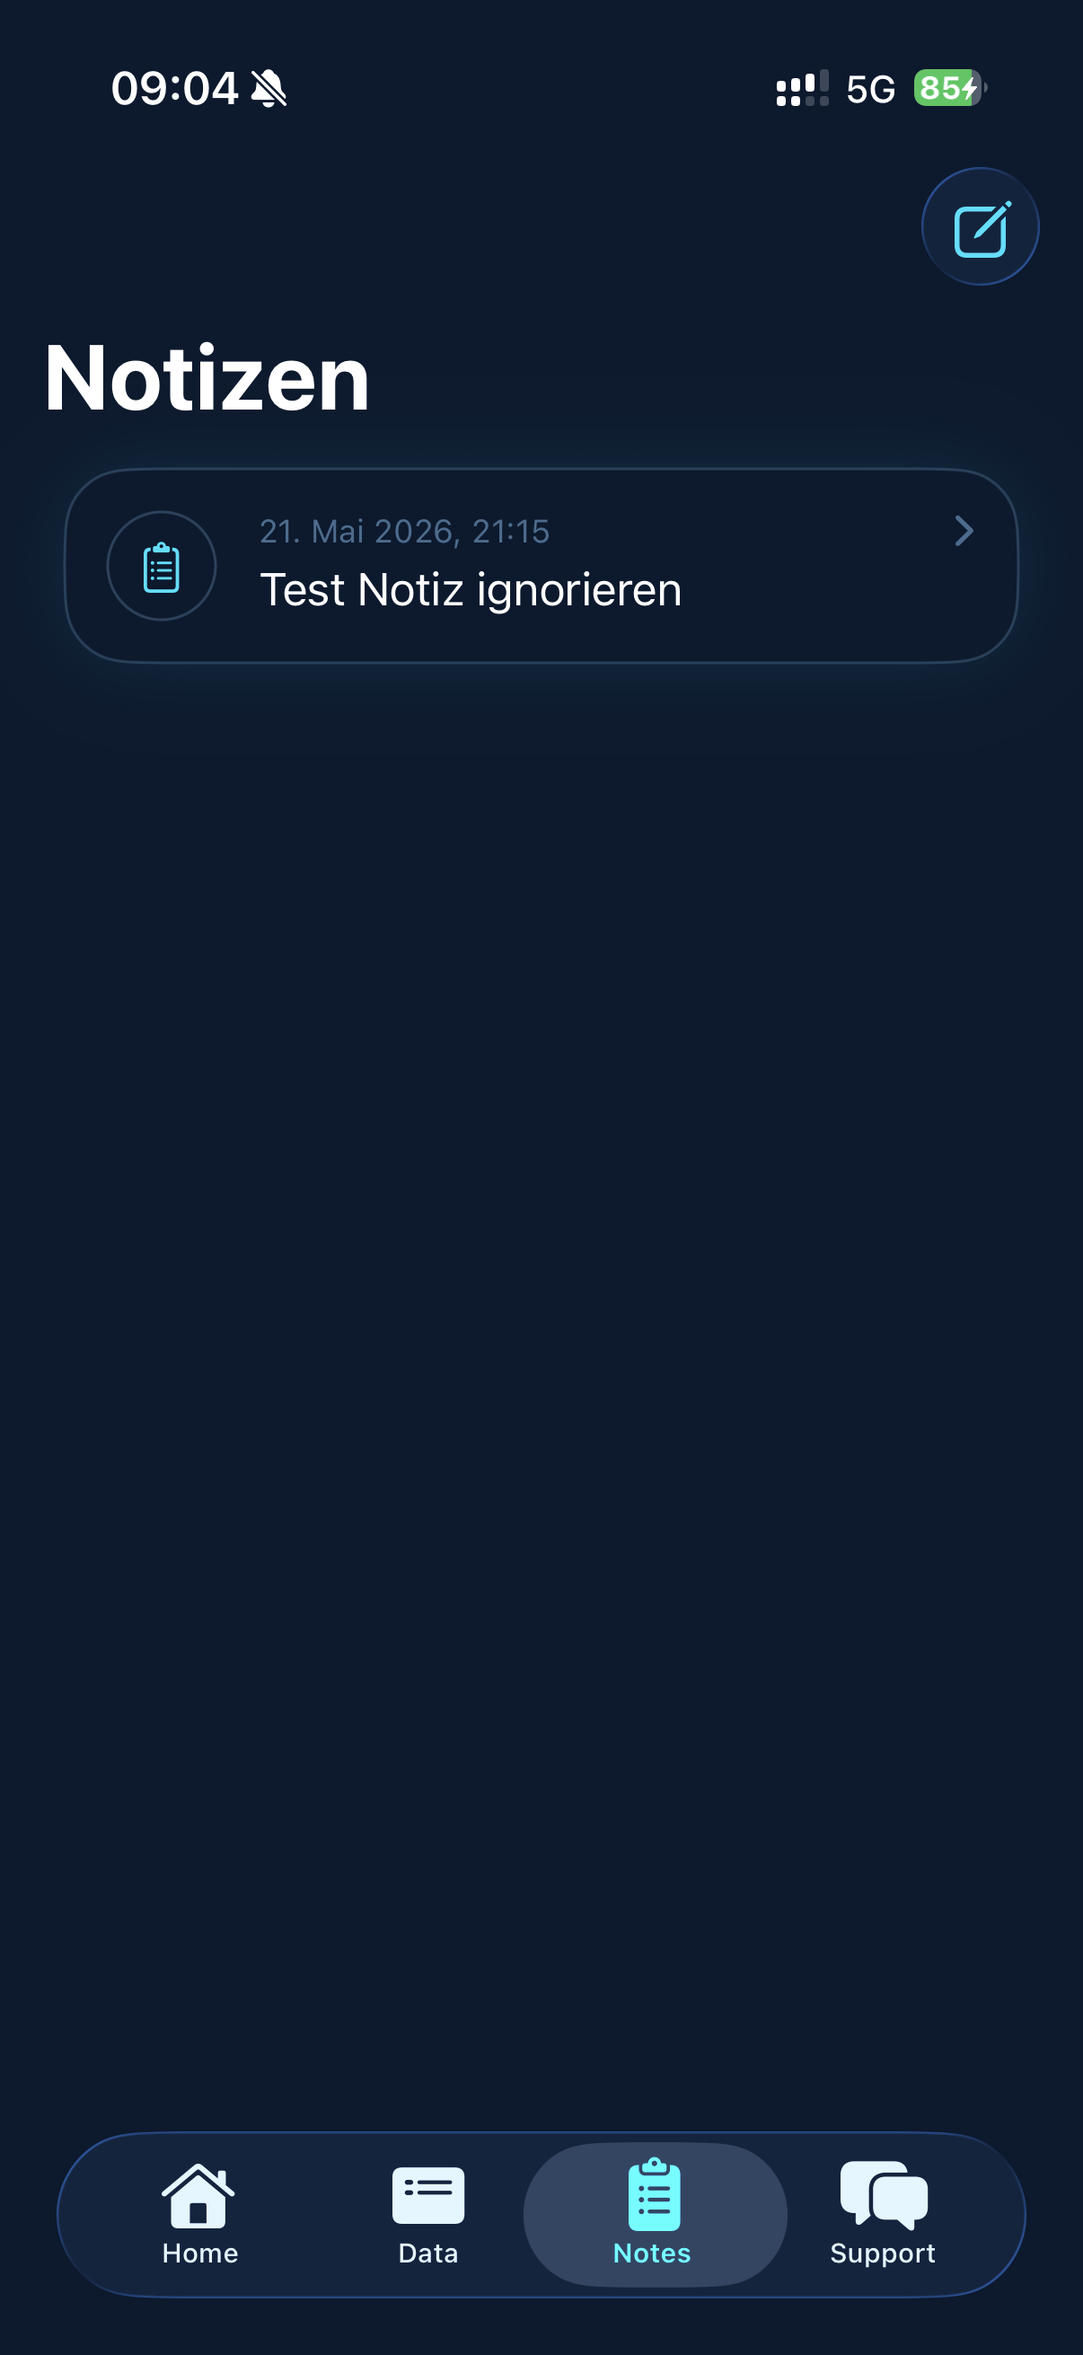
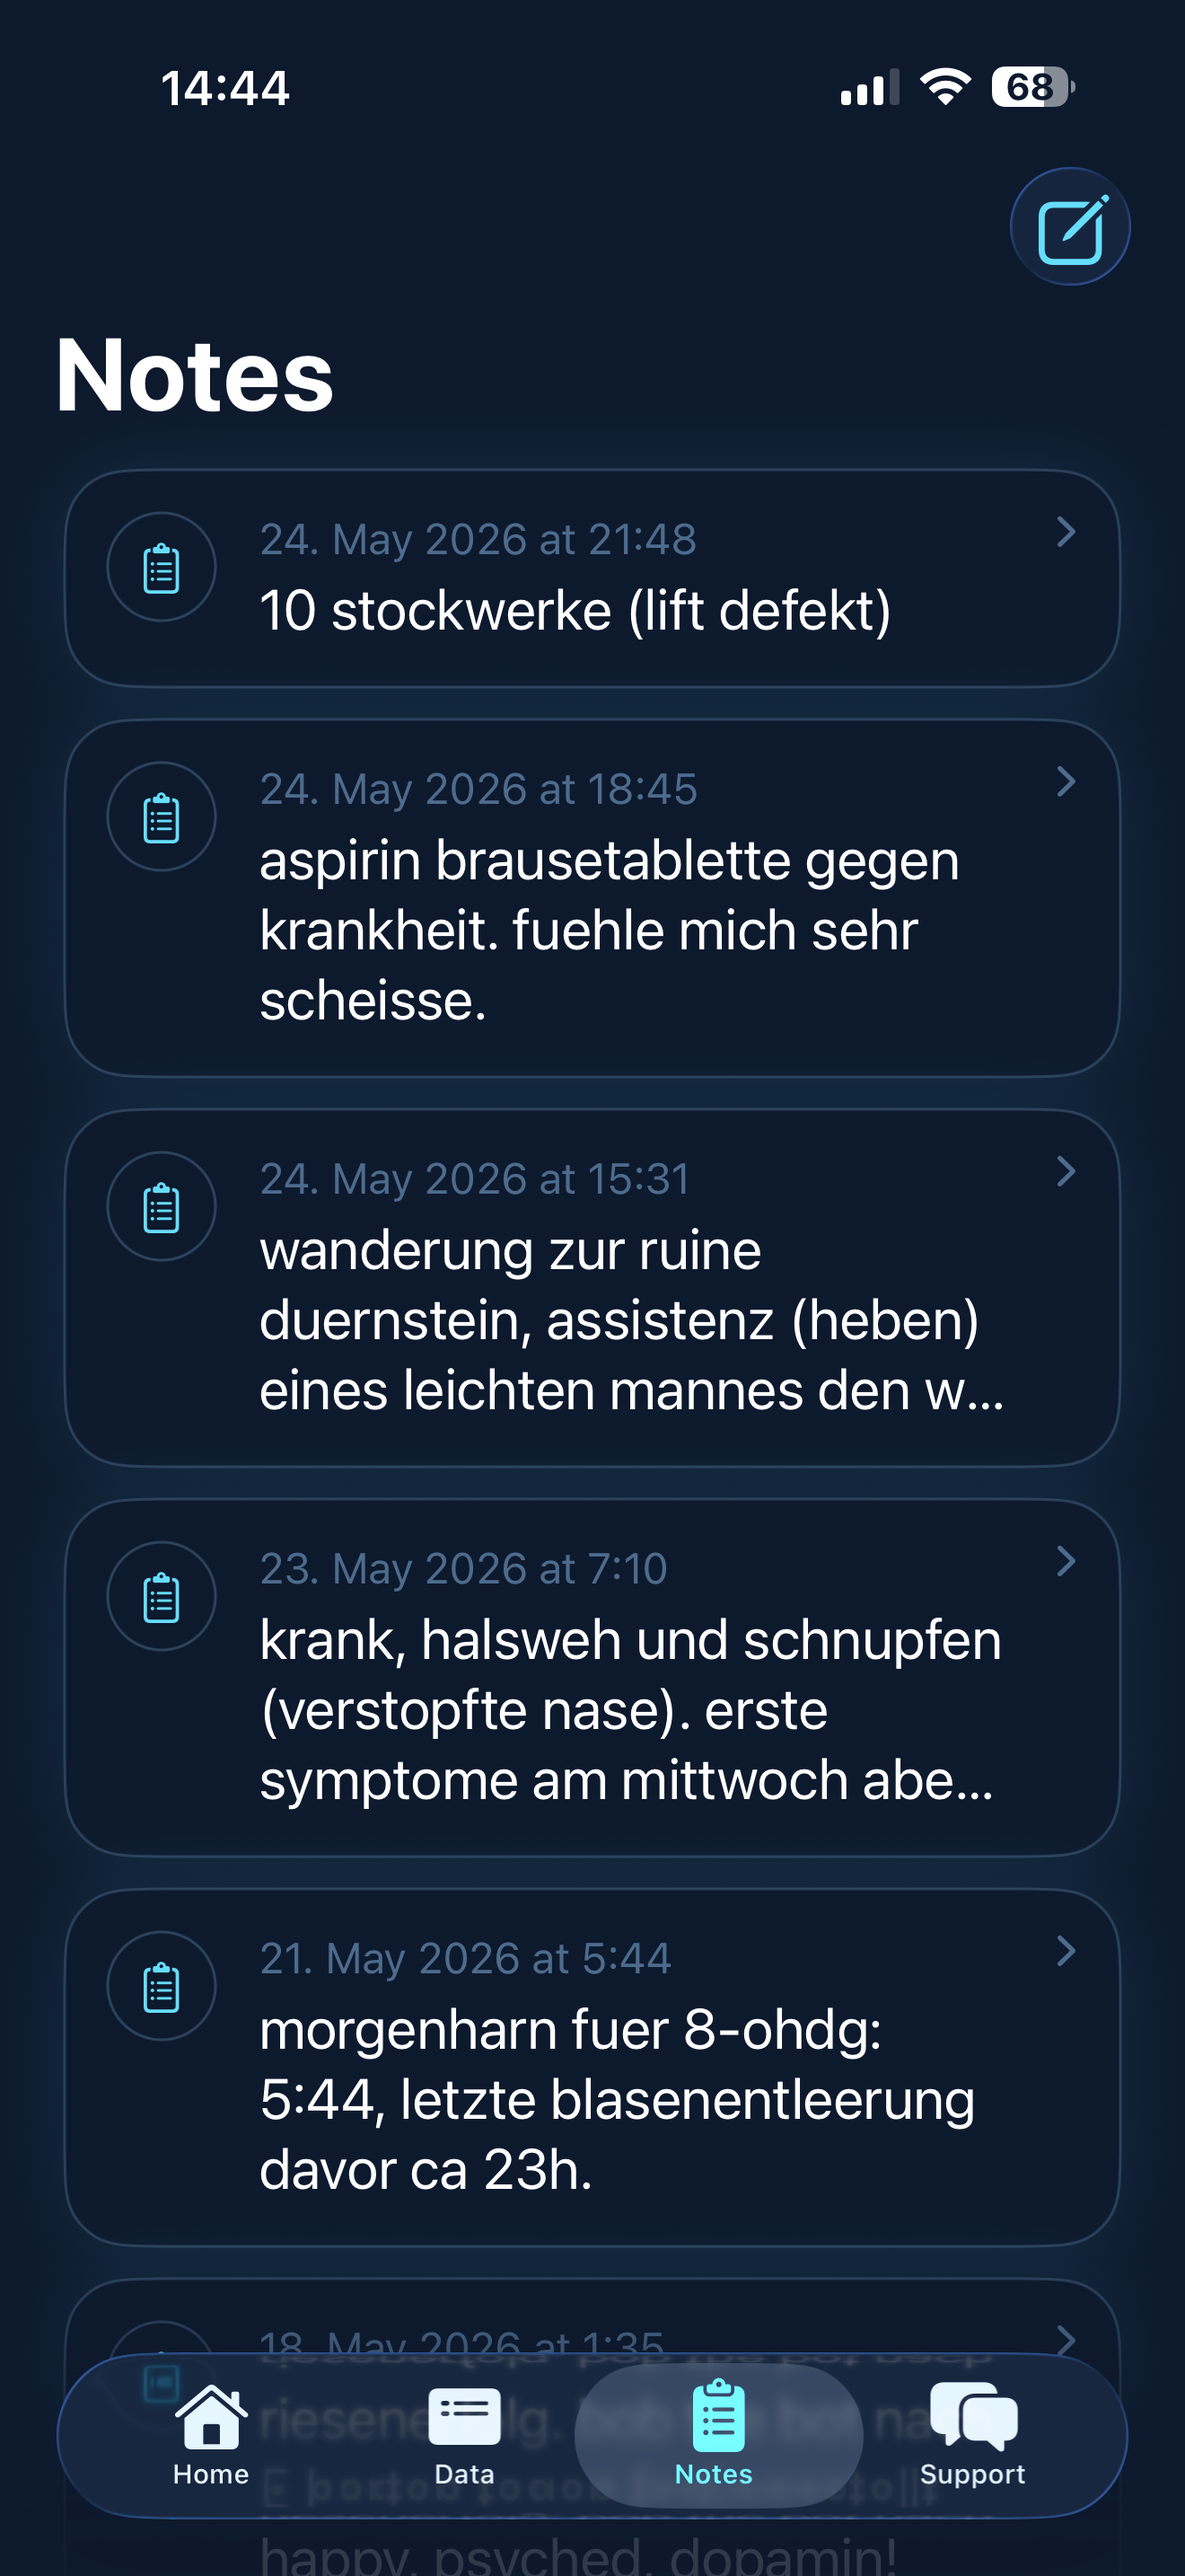
feat(product): real app screenshots + crossfade sticky phone
- Replace placeholder screens with real iPhone screenshots
- Rename slide images to match i18n keys (screens/<key>.png); Hero uses screens/home.png
- Stack + crossfade the sticky phone instead of AnimatePresence mount/unmount, so swaps no longer show a blank frame while the next image optimizes
- Remove orphaned old images (hero-screen.png, data.png, makros.jpeg, workout.png)

diff --git a/components/sections/ProductInMotion.tsx b/components/sections/ProductInMotion.tsx
@@ -1,15 +1,18 @@
 'use client';
 import { useEffect, useRef, useState } from 'react';
 import { useTranslations } from 'next-intl';
-import { motion, AnimatePresence, useReducedMotion } from 'framer-motion';
+import { motion, useReducedMotion } from 'framer-motion';
+import Image from 'next/image';
 import clsx from 'clsx';
 import { PhoneScreenshot } from '@/components/ui/PhoneScreenshot';
 
+// Filenames match the i18n slide key (the "section title"). The matching
+// screenshots live in public/images/screens/<key>.png.
 const SLIDES = [
-  { key: 'home', src: '/images/hero-screen.png' },
-  { key: 'sleep', src: '/images/screens/data.png' },
-  { key: 'meals', src: '/images/screens/makros.jpeg' },
-  { key: 'training', src: '/images/screens/workout.png' },
+  { key: 'home', src: '/images/screens/home.png' },
+  { key: 'sleep', src: '/images/screens/sleep.png' },
+  { key: 'meals', src: '/images/screens/meals.png' },
+  { key: 'training', src: '/images/screens/training.png' },
   { key: 'notes', src: '/images/screens/notes.png' },
 ] as const;
 
@@ -38,8 +41,6 @@ export function ProductInMotion() {
     return () => observer.disconnect();
   }, []);
 
-  const activeSlide = SLIDES[active];
-
   return (
     <section className="py-14 md:py-20">
       <div className="max-w-[1280px] mx-auto px-4 md:px-6 lg:px-8">
@@ -51,20 +52,33 @@ export function ProductInMotion() {
               last slide. (top = 50vh − half the phone height of ~609px.) */}
           <div className="hidden lg:block">
             <div className="sticky" style={{ top: 'calc(50vh - 305px)' }}>
-              <AnimatePresence mode="wait">
-                <motion.div
-                  key={activeSlide.key}
-                  initial={reduced ? false : { opacity: 0, y: 8 }}
-                  animate={{ opacity: 1, y: 0 }}
-                  exit={reduced ? { opacity: 1 } : { opacity: 0, y: -8 }}
-                  transition={{ duration: reduced ? 0 : 0.25, ease: 'easeOut' }}
-                >
-                  <PhoneScreenshot
-                    src={activeSlide.src}
-                    alt={`Thalos app — ${t(`slides.${activeSlide.key}.title`)}`}
-                  />
-                </motion.div>
-              </AnimatePresence>
+              {/* All slides are pre-mounted and stacked; we crossfade opacity on
+                  the active index. Each screenshot loads once (no unmount /
+                  refetch) so swaps are instant — the previous image stays until
+                  the next is ready, eliminating the blank-frame gap that
+                  AnimatePresence's mount/unmount produced while the next big PNG
+                  re-optimized. */}
+              <div className="relative mx-auto w-[280px] aspect-[1206/2622] rounded-phone overflow-hidden border border-border-default shadow-ring-glow bg-navy">
+                {SLIDES.map((s, i) => (
+                  <motion.div
+                    key={s.key}
+                    className="absolute inset-0"
+                    initial={false}
+                    animate={{ opacity: i === active ? 1 : 0 }}
+                    transition={{ duration: reduced ? 0 : 0.35, ease: 'easeOut' }}
+                    aria-hidden={i !== active}
+                  >
+                    <Image
+                      src={s.src}
+                      alt={`Thalos app — ${t(`slides.${s.key}.title`)}`}
+                      fill
+                      sizes="280px"
+                      priority={i === 0}
+                      className="object-cover"
+                    />
+                  </motion.div>
+                ))}
+              </div>
             </div>
           </div>
 

diff --git a/components/ui/PhoneScreenshot.tsx b/components/ui/PhoneScreenshot.tsx
@@ -9,7 +9,7 @@ type Props = {
 };
 
 export function PhoneScreenshot({
-  src = '/images/hero-screen.png',
+  src = '/images/screens/home.png',
   alt,
   priority = false,
   className,
